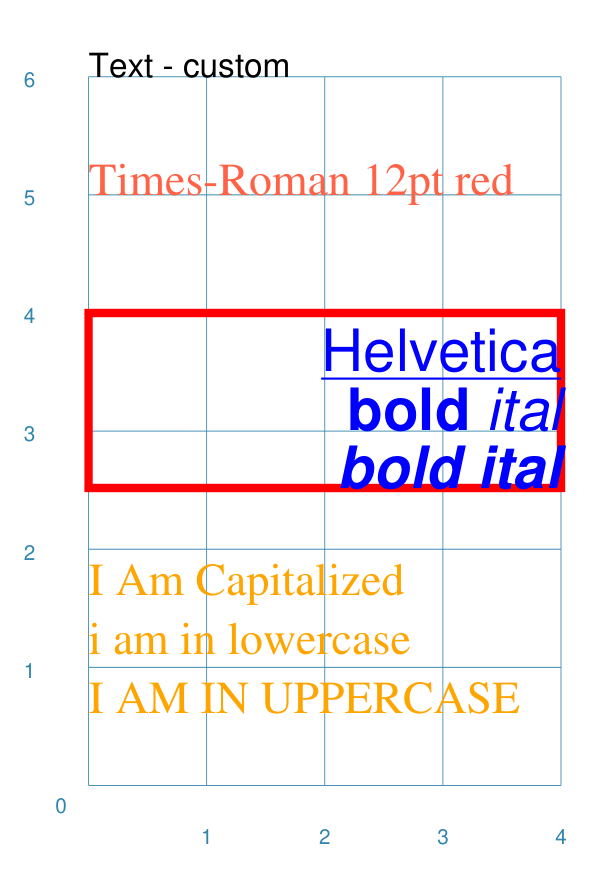
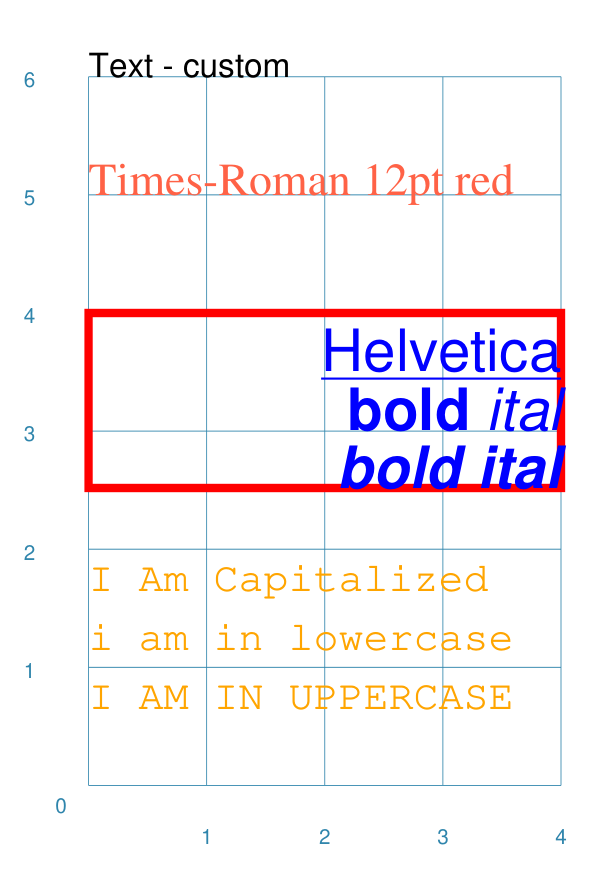
Change from face to name for font. Update examples.

Changed region(s): [[0.1236, 0.648, 0.8341, 0.8331]]

diff --git a/protograf/base.py b/protograf/base.py
@@ -434,7 +434,7 @@ class BaseCanvas:
         #     self.stroke = self.outline
         #     self.fill = None
         # ---- font
-        self.font_face = self.defaults.get('font_face', 'Helvetica')
+        self.font_name = self.defaults.get('font_name', 'Helvetica')
         self.font_size = self.defaults.get('font_size', 12)
         self.font_style = self.defaults.get('font_style', None)
         self.font_directory = self.defaults.get('font_directory', None)
@@ -464,7 +464,7 @@ class BaseCanvas:
         # ---- text: label
         self.label = self.defaults.get('label', '')
         self.label_size = self.defaults.get('label_size', self.font_size)
-        self.label_face = self.defaults.get('label_face', self.font_face)
+        self.label_face = self.defaults.get('label_face', self.font_name)
         self.label_stroke = self.get_color(
             self.defaults.get('label_stroke'), self.stroke)
         self.label_stroke_width = self.defaults.get('label_stroke_width', self.stroke_width)
@@ -474,7 +474,7 @@ class BaseCanvas:
         # ---- text: title
         self.title = self.defaults.get('title', '')
         self.title_size = self.defaults.get('title_size', self.font_size)
-        self.title_face = self.defaults.get('title_face', self.font_face)
+        self.title_face = self.defaults.get('title_face', self.font_name)
         self.title_stroke = self.get_color(
             self.defaults.get('title_stroke', self.stroke))
         self.title_stroke_width = self.defaults.get(
@@ -485,7 +485,7 @@ class BaseCanvas:
         # ---- text: heading
         self.heading = self.defaults.get('heading', '')
         self.heading_size = self.defaults.get('heading_size', self.font_size)
-        self.heading_face = self.defaults.get('heading_face', self.font_face)
+        self.heading_face = self.defaults.get('heading_face', self.font_name)
         self.heading_stroke = self.get_color(
             self.defaults.get('heading_stroke'), self.stroke)
         self.heading_stroke_width = self.defaults.get(
@@ -641,7 +641,7 @@ class BaseCanvas:
         self.coord_start_y = self.defaults.get('coord_start_y', 0)
         self.coord_elevation = self.defaults.get('coord_elevation', None)  # top|middle|bottom
         self.coord_offset = self.defaults.get('coord_offset', 0)
-        self.coord_font_face = self.defaults.get('coord_font_face', 'Helvetica')
+        self.coord_font_name = self.defaults.get('coord_font_name', 'Helvetica')
         self.coord_font_size = self.defaults.get('coord_font_size',
                                                  int(self.font_size * 0.5))
         self.coord_stroke = self.get_color(self.defaults.get('coord_stroke'), black)
@@ -798,7 +798,7 @@ class BaseShape:
         self.debug_color = kwargs.get('debug_color', cnv.debug_color)
         self.transparency = self.kw_float(kwargs.get('transparency', cnv.transparency))
         # ---- font
-        self.font_face = kwargs.get('font_face', cnv.font_face)
+        self.font_name = kwargs.get('font_name', cnv.font_name)
         self.font_size = self.kw_float(kwargs.get('font_size', cnv.font_size))
         self.font_style = kwargs.get('font_style', cnv.font_style)
         self.font_directory = kwargs.get('font_directory', cnv.font_directory)
@@ -814,7 +814,7 @@ class BaseShape:
         # ---- text: label
         self.label = kwargs.get('label', cnv.label)
         self.label_size = self.kw_float(kwargs.get('label_size', self.font_size))
-        self.label_face = kwargs.get('label_face', self.font_face)
+        self.label_face = kwargs.get('label_face', self.font_name)
         self.label_stroke = kwargs.get('label_stroke', self.stroke)
         self.label_stroke_width = self.kw_float(kwargs.get('label_stroke_width', self.stroke_width))
         self.label_mx = self.kw_float(kwargs.get('label_mx', 0))
@@ -823,7 +823,7 @@ class BaseShape:
         # ---- text: title
         self.title = kwargs.get('title', cnv.title)
         self.title_size = self.kw_float(kwargs.get('title_size', self.font_size))
-        self.title_face = kwargs.get('title_face', self.font_face)
+        self.title_face = kwargs.get('title_face', self.font_name)
         self.title_stroke = kwargs.get('title_stroke', self.stroke)
         self.title_stroke_width = self.kw_float(kwargs.get('title_stroke_width', self.stroke_width))
         self.title_mx = self.kw_float(kwargs.get('title_mx', 0))
@@ -832,7 +832,7 @@ class BaseShape:
         # ---- text: heading
         self.heading = kwargs.get('heading', cnv.heading)
         self.heading_size = self.kw_float(kwargs.get('heading_size', self.font_size))
-        self.heading_face = kwargs.get('heading_face', self.font_face)
+        self.heading_face = kwargs.get('heading_face', self.font_name)
         self.heading_stroke = kwargs.get('heading_stroke', self.stroke)
         self.heading_stroke_width = self.kw_float(kwargs.get('heading_stroke_width', self.stroke_width))
         self.heading_mx = self.kw_float(kwargs.get('heading_mx', 0))
@@ -979,7 +979,7 @@ class BaseShape:
         self.coord_start_y = self.kw_int(kwargs.get('coord_start_y', cnv.coord_start_y))
         self.coord_elevation = kwargs.get('coord_elevation', cnv.coord_elevation)  # top|middle|bottom
         self.coord_offset = self.kw_float(kwargs.get('coord_offset', cnv.coord_offset))
-        self.coord_font_face = kwargs.get('coord_font_face', cnv.coord_font_face)
+        self.coord_font_name = kwargs.get('coord_font_name', cnv.coord_font_name)
         self.coord_font_size = self.kw_float(kwargs.get('coord_font_size', cnv.coord_font_size))
         self.coord_stroke = kwargs.get('coord_stroke', cnv.coord_stroke)
         self.coord_padding = self.kw_int(kwargs.get('coord_padding', cnv.coord_padding))
@@ -1143,14 +1143,14 @@ class BaseShape:
 
         canvas = cnv if cnv else self.canvas.canvas
         try:
-            canvas.setFont(ext(self.font_face), ext(self.font_size))
+            canvas.setFont(ext(self.font_name), ext(self.font_size))
         except AttributeError:
             pass
         except KeyError:
-            ff = ext(self.font_face)
+            ff = ext(self.font_name)
             try:
                 self.register_font(
-                    font_name=self.font_face,
+                    font_name=self.font_name,
                     style=self.font_style,
                     directory=self.font_directory)
             except (KeyError, ValueError, TTFError):
@@ -1710,7 +1710,7 @@ class BaseShape:
             return the_shape
 
     def get_font_height(self) -> float:
-        face = pdfmetrics.getFont(self.font_face).face
+        face = pdfmetrics.getFont(self.font_name).face
         height = (face.ascent - face.descent) / 1000 * self.font_size
         return height
 
@@ -1786,7 +1786,7 @@ class BaseShape:
         # tools.feedback(f"*** {string=} {rotation=}")
         if kwargs.get('font_size'):
             fsize = float(kwargs.get('font_size'))
-            canvas.setFont(self.font_face, fsize)
+            canvas.setFont(self.font_name, fsize)
         # ---- drawString
         for ln in string.split('\n'):
             if rotation:
@@ -1827,7 +1827,7 @@ class BaseShape:
             y_off = y_offset or self.title_size / 2.0
             y = yh + self.unit(self.heading_my)
             x = xh + self.unit(self.heading_mx)
-            canvas.setFont(self.font_face, self.heading_size)
+            canvas.setFont(self.font_name, self.heading_size)
             canvas.setFillColor(self.heading_stroke)
             self.draw_multi_string(
                 canvas, x, y + y_off, _ttext, align=align, rotation=_rotation, **kwargs)
@@ -1844,7 +1844,7 @@ class BaseShape:
             yl = yl - (self.label_size / 3.0) if centred else yl
             y = yl + self.unit(self.label_my)
             x = xl + self.unit(self.label_mx)
-            canvas.setFont(self.font_face, self.label_size)
+            canvas.setFont(self.font_name, self.label_size)
             canvas.setFillColor(self.label_stroke)
             self.draw_multi_string(
                 canvas, x, y, _ttext, align=align, rotation=_rotation, **kwargs)
@@ -1861,7 +1861,7 @@ class BaseShape:
             y_off = y_offset or self.title_size
             y = yt + self.unit(self.title_my)
             x = xt + self.unit(self.title_mx)
-            canvas.setFont(self.font_face, self.title_size)
+            canvas.setFont(self.font_name, self.title_size)
             canvas.setFillColor(self.title_stroke)
             self.draw_multi_string(
                 canvas, x, y - y_off, _ttext, align=align, rotation=_rotation, **kwargs)
@@ -1940,7 +1940,7 @@ class BaseShape:
             # display vertex index number next to vertex
             if kwargs.get('vertices', []):
                 canvas.setFillColor(self.debug_color)
-                canvas.setFont(self.font_face, 4)
+                canvas.setFont(self.font_name, 4)
                 for key, vert in enumerate(kwargs.get('vertices')):
                     x = self.points_to_value(vert.x)
                     y = self.points_to_value(vert.y)
@@ -1954,7 +1954,7 @@ class BaseShape:
                 canvas.setFillColor(kwargs.get('color', self.debug_color))
                 canvas.setStrokeColor(kwargs.get('color', self.debug_color))
                 canvas.setLineWidth(0.1)
-                canvas.setFont(self.font_face, 4)
+                canvas.setFont(self.font_name, 4)
                 x = self.points_to_value(point.x)
                 y = self.points_to_value(point.y)
                 self.draw_multi_string(

diff --git a/protograf/shapes.py b/protograf/shapes.py
@@ -175,15 +175,15 @@ class ImageShape(BaseShape):
         xc = x + width / 2.0
         yc = y + height / 2.0
         if self.heading:
-            cnv.setFont(self.font_face, self.heading_size)
+            cnv.setFont(self.font_name, self.heading_size)
             cnv.setFillColor(self.heading_stroke)
             self.draw_multi_string(cnv, xc, y + height + cnv._leading, self.heading)
         if self.label:
-            cnv.setFont(self.font_face, self.label_size)
+            cnv.setFont(self.font_name, self.label_size)
             cnv.setFillColor(self.label_stroke)
             self.draw_multi_string(cnv, xc, yc, self.label)
         if self.title:
-            cnv.setFont(self.font_face, self.title_size)
+            cnv.setFont(self.font_name, self.title_size)
             cnv.setFillColor(self.title_stroke)
             self.draw_multi_string(cnv, xc, y - cnv._leading, self.title)
 
@@ -1497,7 +1497,7 @@ class HexShape(BaseShape):
         # ---- draw coord (optional)
         if self.coord_elevation:
             # ---- * set coord props
-            cnv.setFont(self.coord_font_face, self.coord_font_size)
+            cnv.setFont(self.coord_font_name, self.coord_font_size)
             cnv.setFillColor(self.coord_stroke)
             coord_offset = self.unit(self.coord_offset)
             if self.coord_elevation in ['t', 'top']:
@@ -2485,15 +2485,15 @@ class QRCodeShape(BaseShape):
         xc = x + width / 2.0
         yc = y + height / 2.0
         if self.heading:
-            cnv.setFont(self.font_face, self.heading_size)
+            cnv.setFont(self.font_name, self.heading_size)
             cnv.setFillColor(self.heading_stroke)
             self.draw_multi_string(cnv, xc, y + height + cnv._leading, self.heading)
         if self.label:
-            cnv.setFont(self.font_face, self.label_size)
+            cnv.setFont(self.font_name, self.label_size)
             cnv.setFillColor(self.label_stroke)
             self.draw_multi_string(cnv, xc, yc, self.label)
         if self.title:
-            cnv.setFont(self.font_face, self.title_size)
+            cnv.setFont(self.font_name, self.title_size)
             cnv.setFillColor(self.title_stroke)
             self.draw_multi_string(cnv, xc, y - cnv._leading, self.title)
 
@@ -2589,7 +2589,7 @@ class RectangleShape(BaseShape):
         # ---- draw coord (optional)
         if self.coord_elevation:
             # ---- * set coord props
-            cnv.setFont(self.coord_font_face, self.coord_font_size)
+            cnv.setFont(self.coord_font_name, self.coord_font_size)
             cnv.setFillColor(self.coord_stroke)
             coord_offset = self.unit(self.coord_offset)
             if self.coord_elevation in ['t', 'top']:
@@ -3793,7 +3793,7 @@ class TextShape(BaseShape):
             _style.borderWidth = self.outline_width
             _style.alignment = self.to_alignment()
             _style.fontSize = self.font_size
-            _style.fontName = self.font_face
+            _style.fontName = self.font_name
             _style.leading = self.leading
             _style.textTransform = self.transform
             """

diff --git a/examples/bgg/cards_bgg_basic.py b/examples/bgg/cards_bgg_basic.py
@@ -21,8 +21,8 @@ Data(data_list=bgames.data_list)
 Deck(cards=1, grid_marks=True, stroke=None)  # number of cards reset by Data()
 
 # format of text used
-numbers = Common(font_face="Helvetica", font_size=9, stroke=black)
-title = Common(font_face="Times-Roman", font_size=12, stroke=black)
+numbers = Common(font_name="Helvetica", font_size=9, stroke=black)
+title = Common(font_name="Times-Roman", font_size=12, stroke=black)
 
 # source and location of images
 time_img = image('time.png', x=0.2, y=6.8, width=1.8, height=1.8)
@@ -35,11 +35,11 @@ players = text(common=numbers, x=3.1, y=6.9, text=T('{{ PLAYERS }}'))
 minage = text(common=numbers, x=5.1, y=6.9, text=T('{{ AGE }}'))
 name = text(common=title, x=3.15, y=6.4, text=T('{{ NAME[:32] }}'))
 desc = text(
-    font_face="Times-Roman", font_size=9, stroke="#808080",
+    font_name="Times-Roman", font_size=9, stroke="#808080",
     leading=11, x=0.075, y=6.35, width=6.125, height=4.8,
     wrap=True, align="centre", text=T('{{ DESCRIPTION_SHORT }}'))
 foot = text(
-    font_face="Helvetica", font_size=7, stroke=black, leading=8,
+    font_name="Helvetica", font_size=7, stroke=black, leading=8,
     x=0.1, y=1.67, width=6.1, height=1.6,
     wrap=True, align="centre", text=T('{{ MECHANICS }}'))
 

diff --git a/examples/bgg/cards_bgg_thumb.py b/examples/bgg/cards_bgg_thumb.py
@@ -23,9 +23,9 @@ Deck(cards=1, grid_marks=True, stroke=None)  # number of cards reset by Data()
 
 # format the text and numeric boxes used
 numbers = Common(
-    font_face="Helvetica", font_size=9, height=0.8, width=2.6, x=0.2,
+    font_name="Helvetica", font_size=9, height=0.8, width=2.6, x=0.2,
     notch=0.15, notch_corners="NW SW")
-title = Common(font_face="Times-Roman", font_size=12, stroke=red)
+title = Common(font_name="Times-Roman", font_size=12, stroke=red)
 
 # create an image for the card
 img = image(T('{{ IMAGE }}'), x=2.8, y=5.45, width=3.25, height=3.25)
@@ -41,7 +41,7 @@ name = text(
     common=title, align="left", x=0.2, y=5.8, width=6, wrap=True,
     text=T('<i>{{ NAME }}</i>'))
 desc = text(
-    font_face="Helvetica", font_size=7, stroke=dimgray,
+    font_name="Helvetica", font_size=7, stroke=dimgray,
     leading=8, x=0.2, y=4.8, width=5.8, height=4.8,
     wrap=True, align="justify", text=T('{{ DESCRIPTION_SHORT }}'))
 game_id = circle(

diff --git a/examples/counters/counters_csv.py b/examples/counters/counters_csv.py
@@ -22,9 +22,9 @@ CounterSheet(width=2.6, height=2.6, fill=white, grid_marks=True, copy='COPIES')
 # colors and text labels
 grey = "#B8BAB1"
 brown = "#B6A378"
-value = text(font_face="Helvetica", font_size=18, x=1.3, y=0.5, text=T('{{ VALUE }}'))
-size = text(font_face="Helvetica", font_size=12, x=1.3, y=1.9, text=T('{{ SIZE }}'))
-ident = text(font_face="Helvetica", font_size=12, x=0.55, y=1.18, align='left', rotation=90,
+value = text(font_name="Helvetica", font_size=18, x=1.3, y=0.5, text=T('{{ VALUE }}'))
+size = text(font_name="Helvetica", font_size=12, x=1.3, y=1.9, text=T('{{ SIZE }}'))
+ident = text(font_name="Helvetica", font_size=12, x=0.55, y=1.18, align='left', rotation=90,
              text=T('{{ ID }}'))
 
 # national colors

diff --git a/examples/counters/counters_excel.py b/examples/counters/counters_excel.py
@@ -22,9 +22,9 @@ CounterSheet(width=2.6, height=2.6, fill=white, grid_marks=True, copy='COPIES')
 # colors and text labels
 grey = "#B8BAB1"
 brown = "#B6A378"
-value = text(font_face="Helvetica", font_size=18, x=1.3, y=0.5, text=T('{{VALUE}}'))
-size = text(font_face="Helvetica", font_size=12, x=1.3, y=1.9, text=T('{{SIZE}}'))
-ident = text(font_face="Helvetica", font_size=12, x=0.55, y=1.18, align='left', rotation=90,
+value = text(font_name="Helvetica", font_size=18, x=1.3, y=0.5, text=T('{{VALUE}}'))
+size = text(font_name="Helvetica", font_size=12, x=1.3, y=1.9, text=T('{{SIZE}}'))
+ident = text(font_name="Helvetica", font_size=12, x=0.55, y=1.18, align='left', rotation=90,
              text=T('{{ID}}'))
 
 # national colors

diff --git a/examples/counters/blocks_csv.py b/examples/counters/blocks_csv.py
@@ -36,13 +36,13 @@ base = rectangle(x=0.2, y=0.2, width=2.5, height=2.5, stroke=brown, fill=lbrown)
 
 # per-tile values and elements
 title = text(
-    font_face="Times-Roman", font_size=8, x=1.4, y=2, align="centre",
+    font_name="Times-Roman", font_size=8, x=1.4, y=2, align="centre",
     text=T('{{TITLE}}'))
 move = text(
-    font_face="Times-Roman", font_size=12, x=0.6, y=0.5,
+    font_name="Times-Roman", font_size=12, x=0.6, y=0.5,
     text=T('{{MOVE}}'))
 strength = text(
-    font_face="Times-Roman", font_size=12, x=2.1, y=0.5,
+    font_name="Times-Roman", font_size=12, x=2.1, y=0.5,
     text=T('{{STRENGTH}}'))
 outline = rectangle(
     x=0.45, y=0.45, width=2.0, height=2.0,

diff --git a/examples/core/customised_shapes.py b/examples/core/customised_shapes.py
@@ -539,14 +539,17 @@ Text(x=0, y=4, align="right", stroke=blue,
           '<b>bold</b> <i>ital</i><br/>'
           '<b><i>bold ital</i></b></font>')
 Text(x=0, y=2, align="left", stroke=orange,
+     font_name="Courier", font_size=10,
      wrap=True, width=4, fill=None,
      transform='c',
      text="I am capitalized")
 Text(x=0, y=1.5, align="left", stroke=orange,
+     font_name="Courier", font_size=10,
      wrap=True, width=4, fill=None,
      transform='l',
      text="I am in lowercase")
 Text(x=0, y=1, align="left", stroke=orange,
+     font_name="Courier", font_size=10,
      wrap=True, width=4, fill=None,
      transform='u',
      text="I am in uppercase")

diff --git a/examples/counters/counters.py b/examples/counters/counters.py
@@ -37,9 +37,9 @@ HQ = group(out, rect1)
 art = group(out, circ1)
 
 # unit text
-inf_A = text(font_face="Helvetica", font_size=18, x=1.3, y=0.5, text="2-3-4")
-division = text(font_face="Helvetica", font_size=12, x=1.3, y=1.9, text="XX")
-battalion = text(font_face="Helvetica", font_size=12, x=1.3, y=1.9, text="X")
+inf_A = text(font_name="Helvetica", font_size=18, x=1.3, y=0.5, text="2-3-4")
+division = text(font_name="Helvetica", font_size=12, x=1.3, y=1.9, text="XX")
+battalion = text(font_name="Helvetica", font_size=12, x=1.3, y=1.9, text="X")
 
 # final counter designs
 marker_german = group(

diff --git a/protograf/proto.py b/protograf/proto.py
@@ -272,10 +272,10 @@ def margins(**kwargs):
     return kwargs
 
 
-def Font(face=None, **kwargs):
+def Font(name=None, **kwargs):
     validate_globals()
 
-    globals.cnv.font_face = face or 'Helvetica'
+    globals.cnv.font_name = name or 'Helvetica'
     globals.cnv.font_size = kwargs.get('size', 12)
     globals.cnv.font_style = kwargs.get('style', None)
     globals.cnv.font_directory = kwargs.get('directory', None)

diff --git a/examples/manual/cards4.py b/examples/manual/cards4.py
@@ -23,7 +23,7 @@ mytext = text(text="25!", point=(1.9, 2.5))
 Card("25", mytext)
 
 # specify and store a specifx font; using face, size and color
-times = Common(font_face="Times-Roman", font_size=8, stroke=red)
+times = Common(font_name="Times-Roman", font_size=8, stroke=red)
 
 # create more text, and display it using font stored in 'times'
 mytext2 = text(x=1.9, y=1, text="I'm on cards 1-10", common=times)

diff --git a/examples/manual/cards6.py b/examples/manual/cards6.py
@@ -15,7 +15,7 @@ Deck(cards=9,
      grid_marks=True,
      shape='circle')
 
-times = Common(font_face="Times-Roman", font_size=48, stroke=white, x=3, y=2.5)
+times = Common(font_name="Times-Roman", font_size=48, stroke=white, x=3, y=2.5)
 
 # create a list of text elements for the cards, containing single letters
 mytext1 = text(text=letters("D", "L"), common=times)
